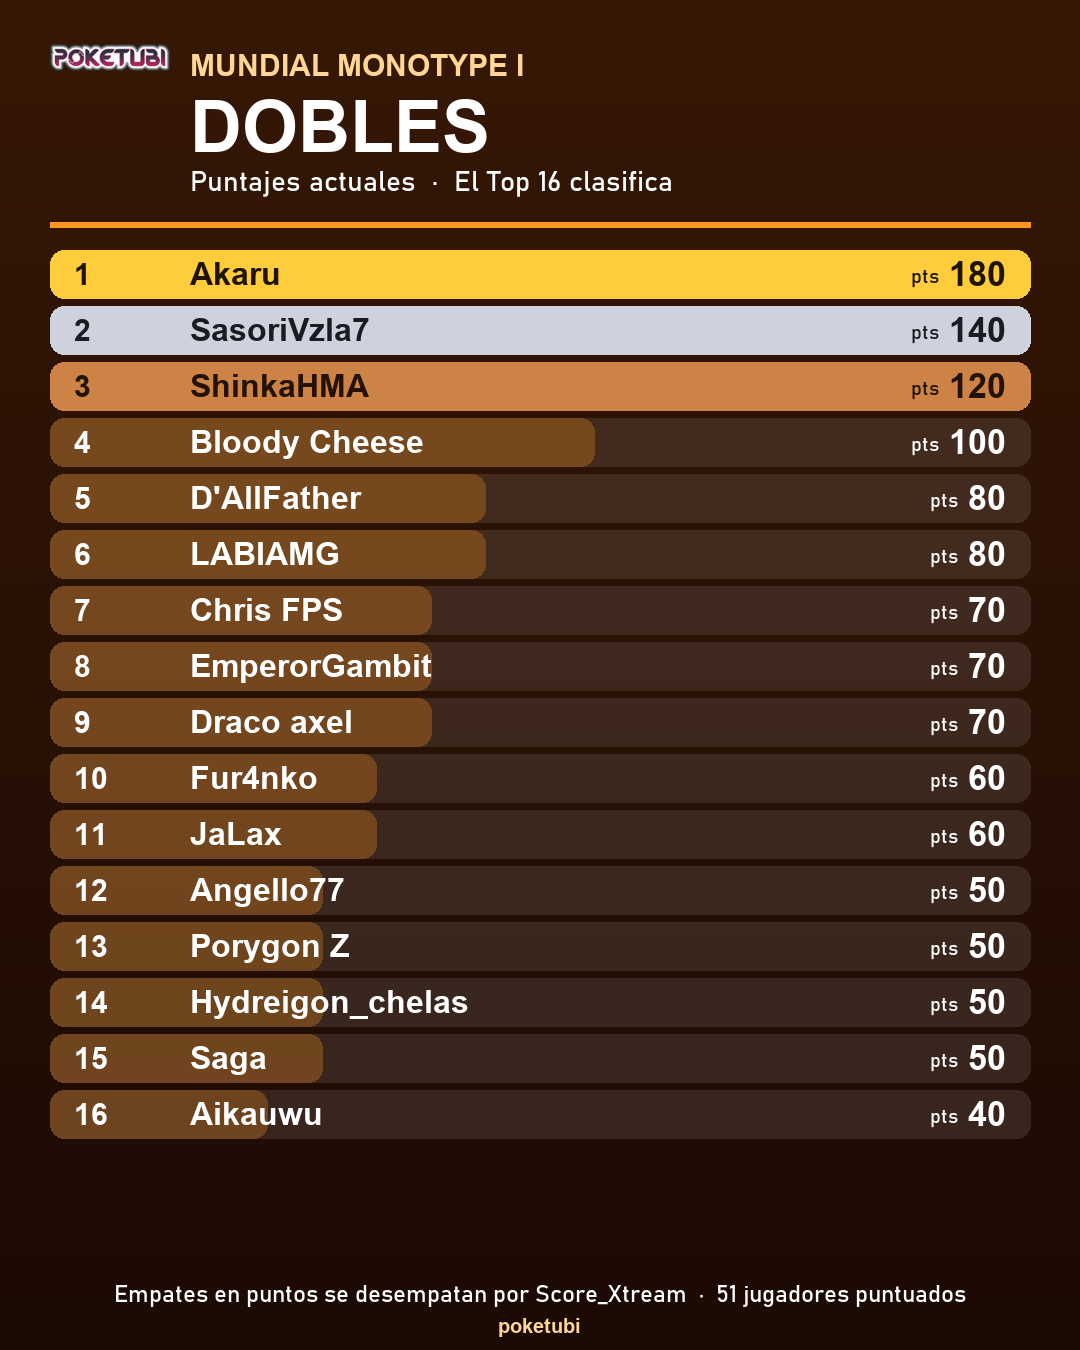
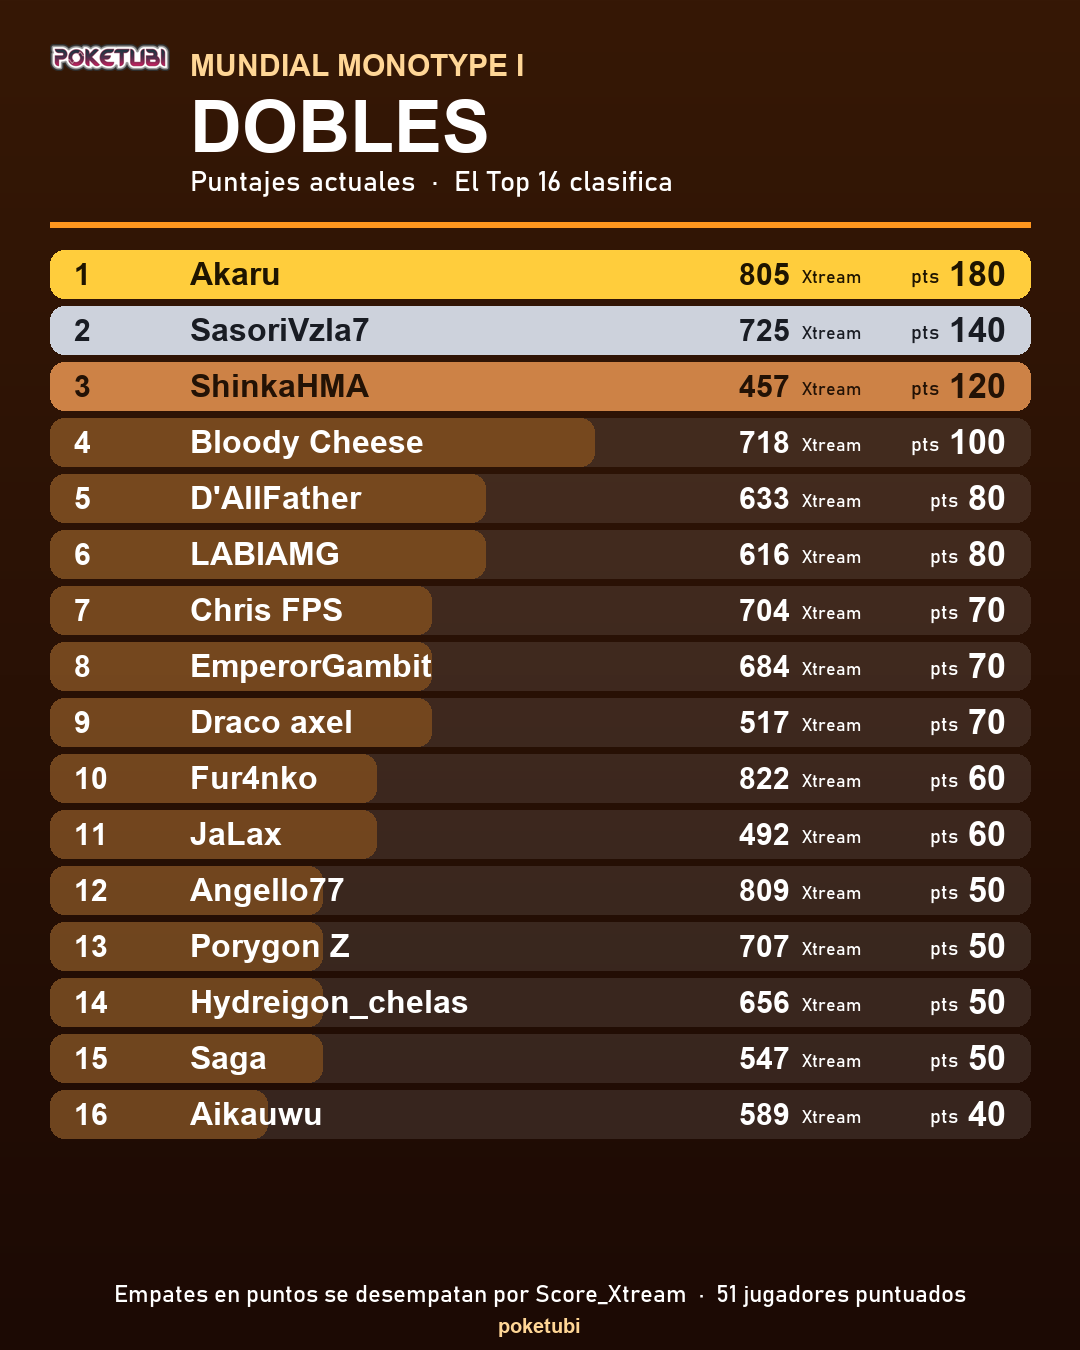
Rankings Monotype I: columna Score_Xtream al costado

Changed region(s): [[0.6722, 0.1867, 0.7944, 0.84]]

diff --git a/generar_ranking_monotype_png.py b/generar_ranking_monotype_png.py
@@ -61,7 +61,7 @@ def _ranking(df_raw):
     for fmt, pts in rankings.items():
         # mismos puntos -> gana el de mayor Score_Xtream (luego orden alfabetico); sin empates en la tabla
         orden = sorted(pts.items(), key=lambda kv: (-kv[1], -sx.get(kv[0].strip().lower(), 0.0), kv[0].lower()))
-        out[fmt] = [(i, jug, p) for i, (jug, p) in enumerate(orden, 1)]
+        out[fmt] = [(i, jug, p, sx.get(jug.strip().lower())) for i, (jug, p) in enumerate(orden, 1)]
     return out
 
 
@@ -90,7 +90,7 @@ def dibujar(fmt, filas):
     max_pts = max(f[2] for f in filas) or 1
 
     y0, alto_fila = 250, 56
-    for k, (rank, jug, pts) in enumerate(top):
+    for k, (rank, jug, pts, sxv) in enumerate(top):
         y = y0 + k * alto_fila
         if rank == 1:
             relleno, texto_c = (255, 205, 60, 255), (30, 20, 0)
@@ -106,8 +106,12 @@ def dibujar(fmt, filas):
             d.rounded_rectangle([50, y, 50 + max(ancho_b, 30), y + alto_fila - 8], radius=14, fill=acento + (70,))
         cy = y + (alto_fila - 8) // 2
         d.text((74, cy), f"{rank}", font=_f(30, True), fill=texto_c, anchor="lm")
-        nombre = _texto_ajustado(d, jug, _f(32, True), 640)
+        nombre = _texto_ajustado(d, jug, _f(32, True), 440)
         d.text((190, cy), nombre, font=_f(32, True), fill=texto_c, anchor="lm")
+        # Score_Xtream al costado (columna entre el nombre y los puntos)
+        sx_txt = f"{sxv:.0f}" if sxv is not None else "-"
+        d.text((790, cy), sx_txt, font=_f(30, True), fill=texto_c, anchor="rm")
+        d.text((802, cy + 3), "Xtream", font=_f(18), fill=texto_c, anchor="lm")
         d.text((ANCHO - 74, cy), f"{pts}", font=_f(34, True), fill=texto_c, anchor="rm")
         d.text((ANCHO - 74 - d.textlength(str(pts), font=_f(34, True)) - 10, cy + 3), "pts",
                font=_f(20), fill=texto_c, anchor="rm")
